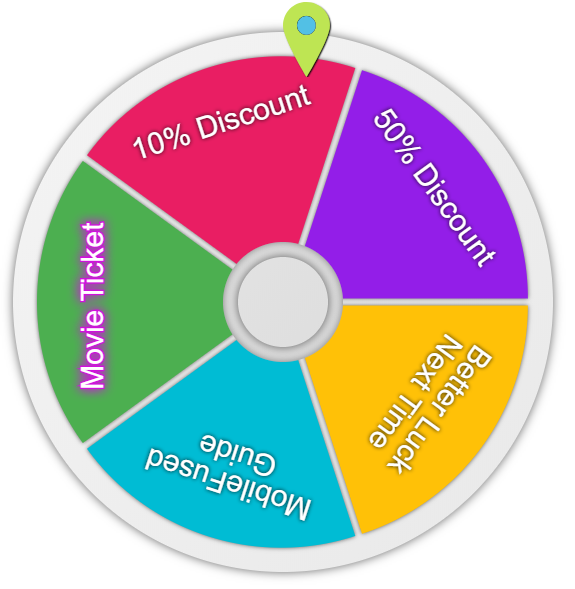
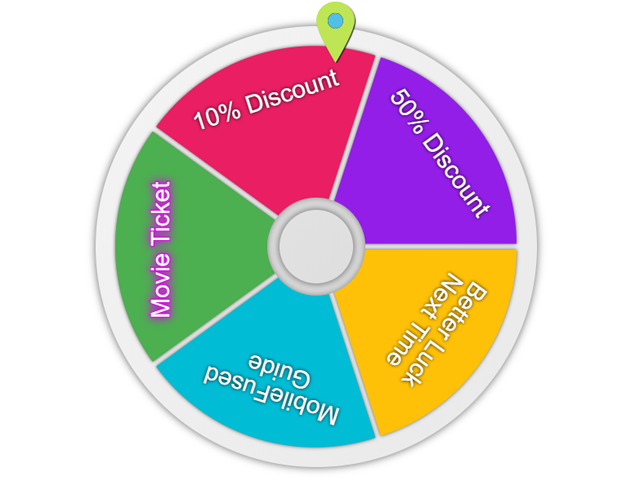
make rotation more smooth

diff --git a/src/jquery.spin-wheel.js b/src/jquery.spin-wheel.js
@@ -27,42 +27,8 @@ var SpinWheelSkins = {
             { color: "gradient:linear:#ececec:#d4d4d4", margin: 80, shadow: { type: 'inner' } },
             { color: "gradient:linear:#d2ff52:#7cbc0a", margin: 85, shadow: { type: 'outer' } }
         ],
-        arrow: { image: '<svg height="1024" width="640" xmlns="http://www.w3.org/2000/svg" style="fill:green;"><defs><filter id="f3" x="0" y="0" width="200%" height="200%"><feOffset result="offOut" in="SourceAlpha" dx="20" dy="20" /><feGaussianBlur result="blurOut" in="offOut" stdDeviation="10" /><feBlend in="SourceGraphic" in2="blurOut" mode="normal" />   </filter></defs><path  filter="url(#f3)" d="M320 0C143.219 0 0 143.21900000000005 0 320s320 704 320 704 320-527.219 320-704S496.75 0 320 0zM320 448c-70.656 0-128-57.344-128-128s57.344-128 128-128c70.625 0 128 57.344 128 128S390.625 448 320 448z"/><ellipse stroke="#000" ry="128.999996" rx="128" id="svg_2" cy="319.999996" cx="319.5" stroke-width="1.5"  style="fill:#E91E63;"/></svg>', color: ['#bee552', '#52c0e5'] },
+        arrow: { image: '<svg height="1024" width="650" xmlns="http://www.w3.org/2000/svg" style="fill:green;"><defs><filter id="f3" x="0" y="0" width="200%" height="200%"><feOffset result="offOut" in="SourceAlpha" dx="20" dy="20" /><feGaussianBlur result="blurOut" in="offOut" stdDeviation="10" /><feBlend in="SourceGraphic" in2="blurOut" mode="normal" />   </filter></defs><path  filter="url(#f3)" d="M320 0C143.219 0 0 143.21900000000005 0 320s320 704 320 704 320-527.219 320-704S496.75 0 320 0zM320 448c-70.656 0-128-57.344-128-128s57.344-128 128-128c70.625 0 128 57.344 128 128S390.625 448 320 448z"/><ellipse stroke="#000" ry="128.999996" rx="128" id="svg_2" cy="319.999996" cx="319.5" stroke-width="1.5"  style="fill:#E91E63;"/></svg>', color: ['#bee552', '#52c0e5'] },
     }
-};
-
-// https://gist.github.com/gre/1650294
-/** only considering the t value for the range [0, 1] => [0, 1] */
-var SpinWheelEasing = {
-    // no easing, no acceleration
-    linear: function (t) { return t },
-    // accelerating from zero velocity
-    easeInQuad: function (t) { return t * t },
-    // decelerating to zero velocity
-    easeOutQuad: function (t) { return t * (2 - t) },
-    // acceleration until halfway, then deceleration
-    easeInOutQuad: function (t) { return t < .5 ? 2 * t * t : -1 + (4 - 2 * t) * t },
-    // accelerating from zero velocity 
-    easeInCubic: function (t) { return t * t * t },
-    // decelerating to zero velocity 
-    easeOutCubic: function (t) { return (--t) * t * t + 1 },
-    // acceleration until halfway, then deceleration 
-    easeInOutCubic: function (t) { return t < .5 ? 4 * t * t * t : (t - 1) * (2 * t - 2) * (2 * t - 2) + 1 },
-    // accelerating from zero velocity 
-    easeInQuart: function (t) { return t * t * t * t },
-    // decelerating to zero velocity 
-    easeOutQuart: function (t) { return 1 - (--t) * t * t * t },
-    // acceleration until halfway, then deceleration
-    easeInOutQuart: function (t) { return t < .5 ? 8 * t * t * t * t : 1 - 8 * (--t) * t * t * t },
-    // accelerating from zero velocity
-    easeInQuint: function (t) { return t * t * t * t * t },
-    // decelerating to zero velocity
-    easeOutQuint: function (t) { return 1 + (--t) * t * t * t * t },
-    // acceleration until halfway, then deceleration 
-    easeInOutQuint: function (t) { return t < .5 ? 16 * t * t * t * t * t : 1 + 16 * (--t) * t * t * t * t },
-    easeInSin: function (t) { return 1 + Math.sin(Math.PI / 2 * t - Math.PI / 2); },
-    easeOutSin: function (t) { return Math.sin(Math.PI / 2 * t); },
-    easeInOutSin: function (t) { return (1 + Math.sin(Math.PI * t - Math.PI / 2)) / 2; }
 };
 
 (function ($) {
@@ -72,8 +38,9 @@ var SpinWheelEasing = {
         slices: [],
         skin: 'default',
         tick_sound: null,
-        easing: SpinWheelEasing.easeInQuint,
-        speed: 50
+        easing: 'easeOutQuint',
+        speed: 3,
+        duration: 3000,
     };
 
     var SpinWheel = function (element, options) {
@@ -86,12 +53,10 @@ var SpinWheelEasing = {
         this.scale = 1;
         this.diameter = this.radius * 2;
 
-        this.speed = this.options.speed;
+        this.speed = this.options.speed >=1 ? this.options.speed:1;
         this.start_angle = 0;
-        this.start_time = 0;
-        this.velocity = 0;
-        this.duration = 5000;// in miliseconds
-        this.stopduration = 0;
+        this.duration = this.options.duration;// in miliseconds
+        this.rotating = false;
 
         this.rotate_arrow = 0;
         this.images = [];
@@ -99,6 +64,7 @@ var SpinWheelEasing = {
         this.canvas = null;
         this.ctx = null;
         this.arrow = null;
+        this.arrow_angle = 270; //on top
         this.audio = null;
         this.winner = -1;
         this.init();
@@ -116,7 +82,7 @@ var SpinWheelEasing = {
             this._prepareArrow()
             this.render();
 
-      
+
             //this.spin();
         },
 
@@ -189,8 +155,8 @@ var SpinWheelEasing = {
         },
 
         spin: function (speed, duration) {
-            if(speed) this.speed = speed;
-            if(duration) this.duration = duration;
+            if (speed) this.speed = speed;
+            if (duration) this.duration = duration;
             this.start_time = Date.now();
             this.velocity = 0;
             this.start_angle = 0;
@@ -236,11 +202,11 @@ var SpinWheelEasing = {
 
         },
 
-        _calcChance: function(){
+        _calcChance: function () {
             var chances = [];
             var idx = 0;
-            for(var s of this.options.slices){
-                for(var i=0, l=s.chance ? s.chance:1; i<l;i++){
+            for (var s of this.options.slices) {
+                for (var i = 0, l = s.chance ? s.chance : 1; i < l; i++) {
                     chances.push(idx);
                 }
                 idx++;
@@ -250,33 +216,27 @@ var SpinWheelEasing = {
         },
 
         _rotate: function () {
-            //this.velocity += .0025;
-            var d = Date.now() - this.start_time;
-            if (d <= this.duration) {
-                this.velocity = this.options.easing(1 - (Date.now() - this.start_time) / this.duration);
-                this.velocity = Math.max(this.velocity, 0.010);
-            } else if(this.velocity > 0 && this.stopduration > 0){
-                this.velocity -= this.stopduration;
-                //console.log(this.stopduration, this.velocity);
-            } else if(this.velocity > 0) {
-                this.stopduration = -2;
-            }
+            this.rotating = true;
+            var self = this;
+            var sa = 360/this.options.slices.length;
+            var angle = this.arrow_angle + (360 * this.speed) - ( (this.winner+1) * sa ) + (Math.random()*sa);
+            var args = $.speed(this.duration, this.easing, function(){
+                self.rotating = false;
+                self.render();
+                self._onStop();
+            });
+            args.step = function (now, fx) {
+                self.start_angle = self._toRadian(now);
+                self.render();
+                //console.log('rotate(' + now + 'deg)');
+            };
 
-            //console.log(this.speed * this.velocity);
-            this.start_angle += this._toRadian(this.speed * this.velocity);
-            this.render();
-
-            if (this.velocity > 0) {
-                requestAnimationFrame(this._rotate.bind(this));
-            } else {
-                this._onStop();
-                this.stopduration = 0;
-            }
+            $({ deg: 0 }).animate({ deg: angle }, args);
         },
 
-        _parseColor: function (color, center, radius, is_circle=false) {
+        _parseColor: function (color, center, radius, is_circle = false) {
             //var center = 0, radius = this.radius;
-            if(!is_circle) is_circle = false;
+            if (!is_circle) is_circle = false;
             var start = is_circle ? -radius : center;
             //console.info(radius);
             //var diameter = 2 * radius;
@@ -314,13 +274,13 @@ var SpinWheelEasing = {
                 var info_arr = color.split(":");
 
                 //if (info_arr[2].match(/^distribute/) || info_arr.length-2 > 2) start = -radius;
-                
+
                 if (info_arr[1] == "radial") {
                     var grd = this.ctx.createRadialGradient(center, center, 0, center, center, radius);
                 } else if (info_arr[1] == "linear-v") {
                     var grd = this.ctx.createLinearGradient(start, 0, radius, 0);
                 } else if (info_arr[1] == "linear-h") {
-                    var grd = this.ctx.createLinearGradient(0, start, 0, radius);                    
+                    var grd = this.ctx.createLinearGradient(0, start, 0, radius);
                 } else {
                     var grd = this.ctx.createLinearGradient(start, start, radius, radius);
                 }
@@ -349,7 +309,7 @@ var SpinWheelEasing = {
 
         _drawCircle: function (props) {
             this.ctx.save();
-            
+
             var radius = this.radius;
             var center = 0;
 
@@ -367,11 +327,11 @@ var SpinWheelEasing = {
             var offsetY = Math.sin(mid_angle) * offset;
 
             this.ctx.beginPath();
-            this.ctx.translate(this.radius, this.radius)  ;
-            if(props.rotate) {
+            this.ctx.translate(this.radius, this.radius);
+            if (props.rotate) {
                 this.ctx.rotate(props.rotate);
             }
-            
+
             //this.ctx.moveTo(center + offsetX, center + offsetY);
             this.ctx.arc(center + offsetX, center + offsetY, radius, start_angle, start_angle + angle);
             if (offset > 0) {
@@ -385,15 +345,15 @@ var SpinWheelEasing = {
                 this.ctx.shadowOffsetX = (props.shadow.offsetX ? props.shadow.offsetX : 0) * this.scale;
                 this.ctx.shadowOffsetY = (props.shadow.offsetY ? props.shadow.offsetY : 0) * this.scale;
             }
-            
+
             if (props.color) {
                 this.ctx.fillStyle = this._parseColor(props.color, center + offsetX, radius, angle == this._toRadian(360));
                 this.ctx.fill();
             }
 
-            if(props.image) {
-                var self= this;
-                if(!props.patternImage) {
+            if (props.image) {
+                var self = this;
+                if (!props.patternImage) {
                     var img = $('<img/>', {
                         load: function () {
                             props.patternImage = img[0];
@@ -407,12 +367,12 @@ var SpinWheelEasing = {
                 } else {
                     //this.ctx.clip();
                     var r = radius * 0.9;
-                    var pattern = this.ctx.drawImage(props.patternImage, -r, -r, 2*r, 2*r);
+                    var pattern = this.ctx.drawImage(props.patternImage, -r, -r, 2 * r, 2 * r);
                 }
-            }else if(props.pattern) {
-                var self= this;
+            } else if (props.pattern) {
+                var self = this;
                 //console.log(props.patternImage);
-                if(!props.patternImage) {
+                if (!props.patternImage) {
                     var img = $('<img/>', {
                         load: function () {
                             props.patternImage = img[0];
@@ -550,7 +510,7 @@ var SpinWheelEasing = {
                 var slice = slices[i];
                 var text = slice.label;
 
-                if(!slice.props){
+                if (!slice.props) {
                     slice.props = $.extend({}, props, slice.style || {});
                 }
                 var params = $.extend(slice.props, { start_angle: 0, angle: arc, rotate: sa + arc * i }); //sa + arc * i
@@ -559,27 +519,22 @@ var SpinWheelEasing = {
                     clridx++;
                     if (clridx >= props.bgcolors.length) clridx = 0;
                 }
-                if(slice.style && slice.style.color){
+                if (slice.style && slice.style.color) {
                     params['pattern'] = null;
                     params['color'] = slice.style.color;
                 }
-                $.extend(params.text , {text: text, radius: this.radius * 0.80 - props.margin});
+                $.extend(params.text, { text: text, radius: this.radius * 0.80 - props.margin });
                 //console.log(params);
                 //params["text"] = { text: text, style: slice.text ? slice.text:props.text, radius: this.radius * 0.80 - props.margin };
-                var slicea = (sa + arc * (i+1)) % this._toRadian(360);
+                var slicea = (sa + arc * (i + 1)) % this._toRadian(360);
                 var da = this.velocity * this._toRadian(30);
-                if (slicea + da >= this._toRadian(275) && slicea - da <= this._toRadian(275) && this.rotate_arrow == 0) {
+                if (slicea >= this._toRadian(this.arrow_angle) && slicea <= this._toRadian(this.arrow_angle+10) && this.rotate_arrow == 0 && this.rotating) {
                     this._onTick();
-                    if(this.stopduration == -2 && i == this.winner){
-                        var anims = Math.floor(Math.random() * (360/(slices.length*15))) + 0.5;//  ((Math.random() * 2) / this.options.slices.length);
-                        this.stopduration = (this.velocity / (60 * anims));
-                        //console.log(this.stopduration, this.winner, anims);
-                    }
                 }
-                //console.log(slicea + da, this._toRadian(275));
+                //console.log(slicea, this._toRadian(this.arrow_angle));
                 this._drawCircle(params);
                 this.ctx.save();
-                
+
                 this.ctx.restore();
                 //this._drawText(text, sa + arc * i, arc, props.text);
             }
@@ -590,14 +545,14 @@ var SpinWheelEasing = {
             if (this.arrow) {
                 this.ctx.save();
                 this.ctx.beginPath();
-                this.ctx.translate(this.radius, 5);
-                if (this.rotate_arrow > 0) {
+                this.ctx.translate(this.radius - this.arrow.width/2, 5);
+                if (this.rotate_arrow > 0 && this.rotating) {
                     this.ctx.rotate(-this._toRadian(this.rotate_arrow));
-                    this.rotate_arrow += 10;
-                    if(this.rotate_arrow >= 50){
+                    this.rotate_arrow += 5;
+                    if (this.rotate_arrow >= 50) {
                         this.rotate_arrow = 0;
                     }
-                }
+                } 
                 this.ctx.drawImage(this.arrow, 0, -5);
                 this.ctx.restore();
             }
@@ -626,11 +581,11 @@ var SpinWheelEasing = {
             var svg = $.parseXML(svg);
             var svge = $(svg).find('svg');
             var svgh = svge.attr('height');
-            var svhw = svge.attr('width');
+            var svgw = svge.attr('width');
             var h = 25;
             var sh = h / svgh;
-            var w = svhw / sh;
-            var sw = svhw / w;
+            var w = svgw * sh;
+            var sw = w / svgw;
             var transformTag = $(document.createElementNS('http://www.w3.org/2000/svg', 'g'))
                 .attr('transform', 'scale(' + sw + ', ' + sh + ')');
 
@@ -673,10 +628,10 @@ var SpinWheelEasing = {
 
     /** if not requestanimationframe found  */
     window.requestAnimationFrame = window.requestAnimationFrame
-    || window.mozRequestAnimationFrame
-    || window.webkitRequestAnimationFrame
-    || window.msRequestAnimationFrame
-    || function(f){return setTimeout(f, 1000/60)};
+        || window.mozRequestAnimationFrame
+        || window.webkitRequestAnimationFrame
+        || window.msRequestAnimationFrame
+        || function (f) { return setTimeout(f, 1000 / 60) };
 
 }(jQuery));
 

diff --git a/example.html b/example.html
@@ -27,11 +27,20 @@
           { label: 'Movie Ticket', chance: 20, prize: true, style: { text: { color: '#ffffff', font: 'sans-serif', font_size: 10, shadow: { blur: 6, color: '#d011dd' }, stroke: { width: 1, color: '#d011dd' } } } },
           { label: '10% Discount', chance: 8, prize: true },
           { label: '50% Discount', chance: 2, prize: true },
+          { label: 'MobileFused Guide1', chance: 30, prize: true },
+          { label: 'MobileFused Guide2', chance: 30, prize: true },
+          { label: 'MobileFused Guide3', chance: 30, prize: true },
+          { label: 'MobileFused Guide4', chance: 30, prize: true },
+          { label: 'MobileFused Guide5', chance: 30, prize: true },
+          { label: 'MobileFused Guide6', chance: 30, prize: true },
+          { label: 'MobileFused Guide7', chance: 30, prize: true },
 
         ],
         skin: 'myskin',
         radius: 300,
         tick_sound: 'tick.mp3',
+        duration:3000,
+        speed:1,
         onStop: function (idx, slice) {
           console.log('winner is ', idx, slice);
         }
